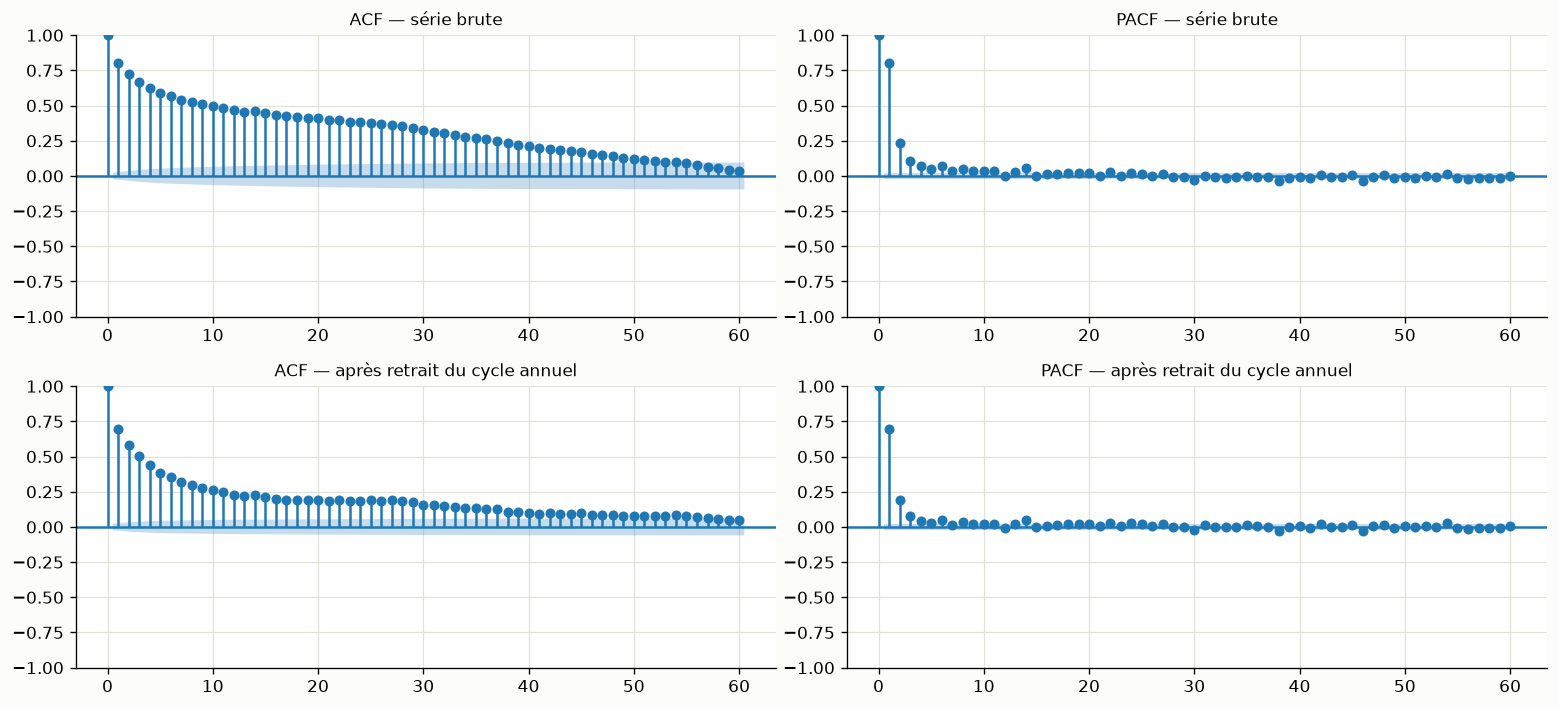
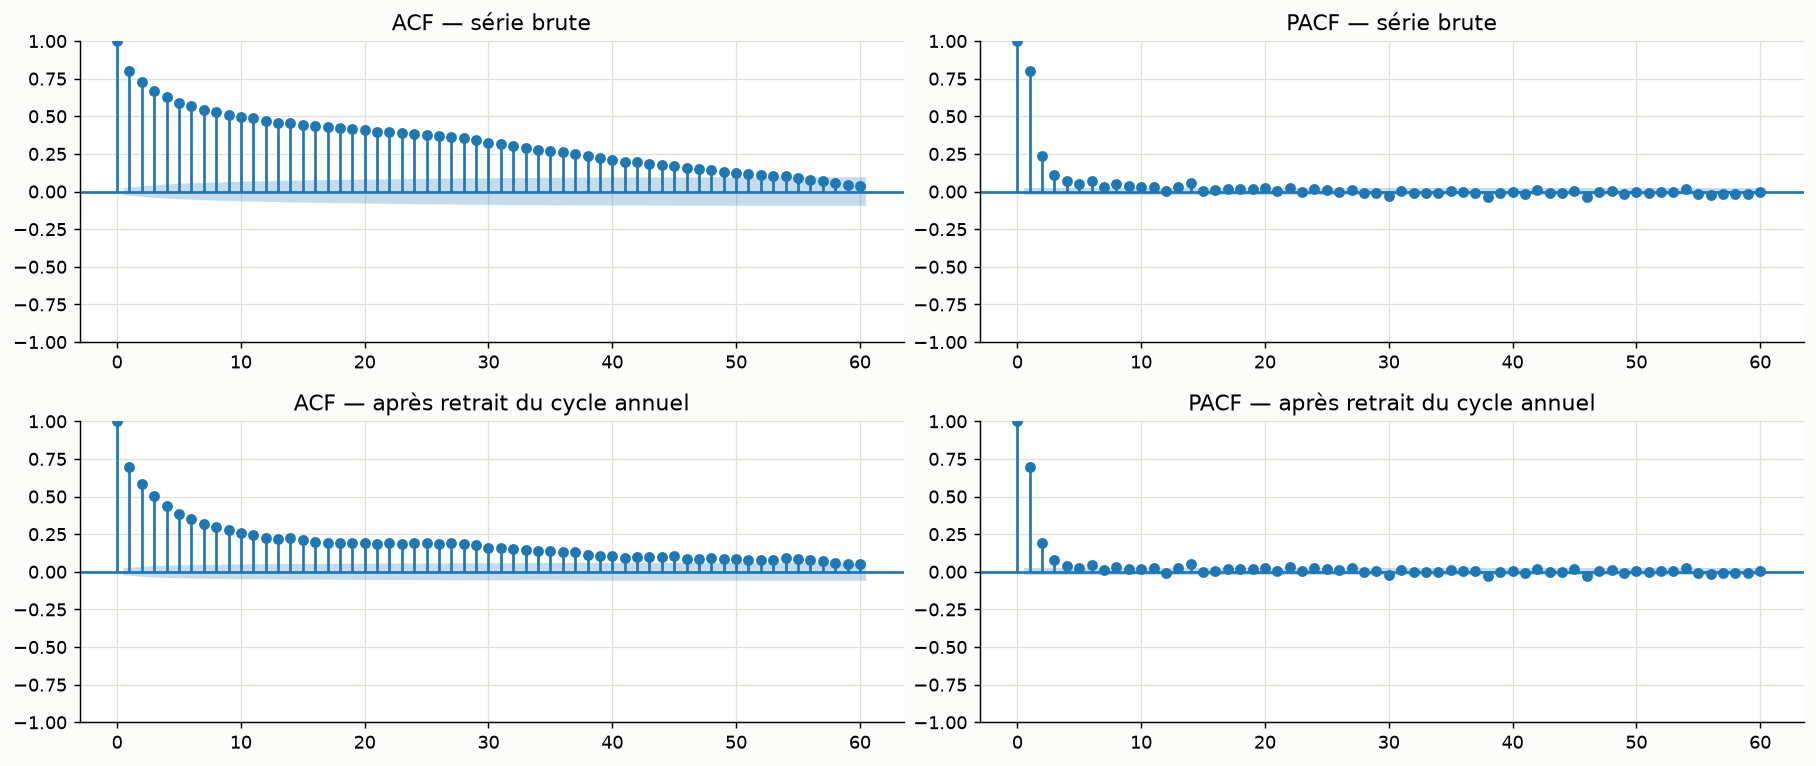
Recalculer l'ACF/PACF depuis PostgreSQL plutôt que par reconstruction
La base était arrêtée au moment du commit précédent ; la série avait été
reconstruite depuis jours_feu.parquet. L'écart avec la version calculée par
le module était de 2 × 10⁻³, dû à un détail : la reconstruction employait
3 harmoniques de Fourier, le module en utilise 4. Les résidus du cycle
annuel diffèrent donc légèrement, et l'ACF avec eux.

Aucune conclusion ne changeait, mais autant que le chiffre affiché vienne de
la source. Le CSV est maintenant celui produit par tvfed.series.

La ligne de résumé du module oubliait d'annoncer le nouveau CSV.

50 tests passent, y compris les deux qui interrogent la base.

diff --git a/src/tvfed/series.py b/src/tvfed/series.py
@@ -231,7 +231,8 @@ def main() -> None:
     print(f"\n→ meilleur : {meilleur.modele}")
     print(f"  gain sur la référence saisonnière : "
           f"{100 * (1 - meilleur.mae / mae_naif):+.1f} % de MAE")
-    print(f"\n✅ series_adf.csv · series_sarimax.csv · series_acf_pacf.png")
+    print("\n✅ series_adf.csv · series_sarimax.csv · series_acf_pacf.csv "
+          "· series_acf_pacf.png")
 
 
 if __name__ == "__main__":
